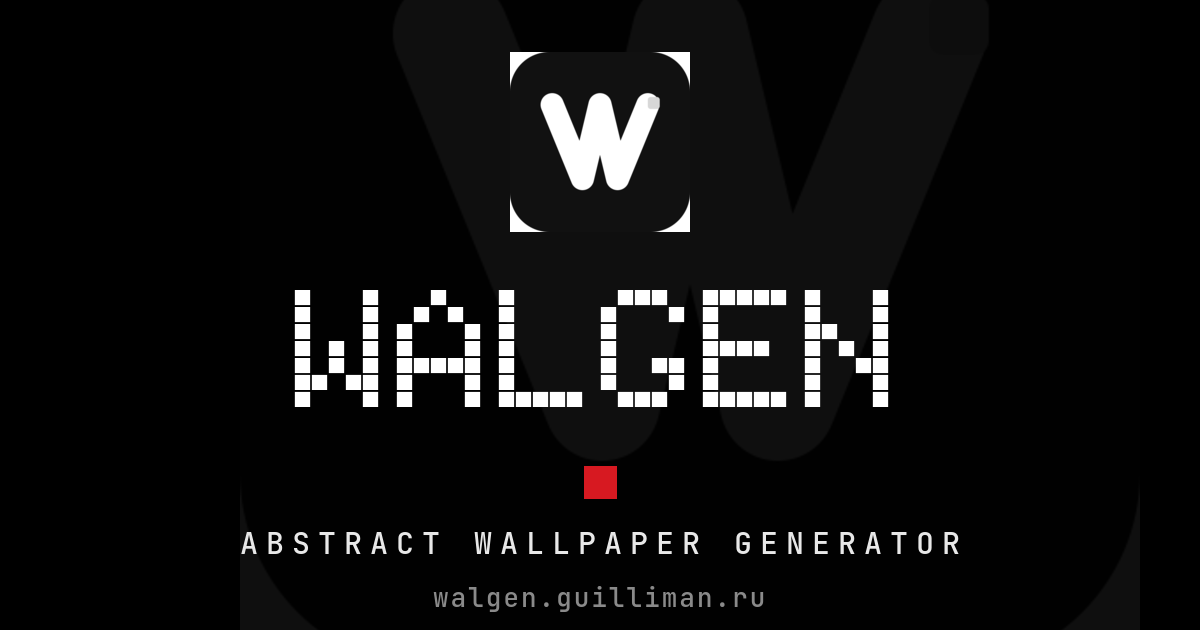
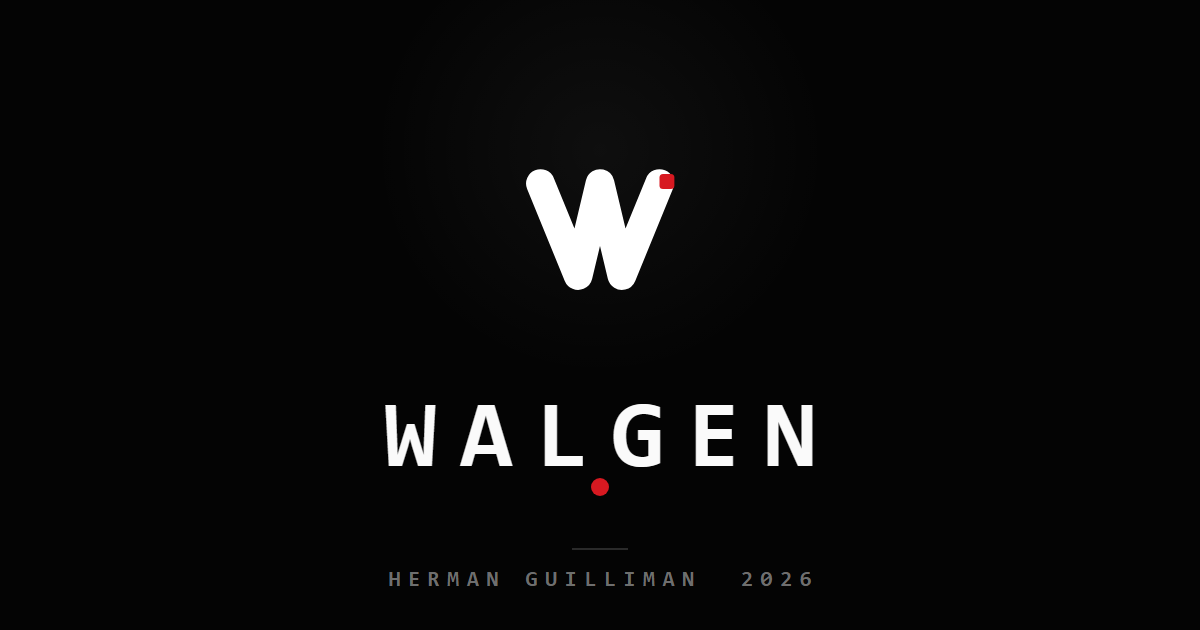
Deploy: feat(seo): regenerate og-image with branded footer credit hermanguilliman/walgen-source@dd89683cf3079bbb3b5f096d6552273559cf8cec

diff --git a/sw.js b/sw.js
@@ -1,1 +1,1 @@
-if(!self.define){let e,i={};const n=(n,r)=>(n=new URL(n+".js",r).href,i[n]||new Promise(i=>{if("document"in self){const e=document.createElement("script");e.src=n,e.onload=i,document.head.appendChild(e)}else e=n,importScripts(n),i()}).then(()=>{let e=i[n];if(!e)throw new Error(`Module ${n} didn’t register its module`);return e}));self.define=(r,c)=>{const a=e||("document"in self?document.currentScript.src:"")||location.href;if(i[a])return;let s={};const o=e=>n(e,a),f={module:{uri:a},exports:s,require:o};i[a]=Promise.all(r.map(e=>f[e]||o(e))).then(e=>(c(...e),s))}}define(["./workbox-fed2bdfe"],function(e){"use strict";self.skipWaiting(),e.clientsClaim(),e.precacheAndRoute([{url:"site.webmanifest",revision:"dcdecbef510639f895f873952e005c21"},{url:"safari-pinned-tab.svg",revision:"e15fd69e3b5f8c7195f5c7780bfddf3a"},{url:"registerSW.js",revision:"1872c500de691dce40960bb85481de07"},{url:"og-image.png",revision:"5515c7f4331d9ddf37cf88f511177916"},{url:"mstile-150x150.png",revision:"4d647afcf1d72ba693ca9e34a92bc093"},{url:"maskable-512x512.png",revision:"831ca27d08c46f5c7dbe8eff5f666afc"},{url:"index.html",revision:"275168c03889d5dce8172fcacf2c72b1"},{url:"favicon.svg",revision:"6b46a762673be0e3e7b09362fcc8c5a8"},{url:"favicon.ico",revision:"e60665b2a6265ec7ed246c985b76f787"},{url:"favicon-48x48.png",revision:"0acad14056ee13a5553abd98b98475ac"},{url:"favicon-32x32.png",revision:"9ed587a34977d566f5a1c7179d0e7163"},{url:"favicon-16x16.png",revision:"7cb563031a20c2548b51732f70268544"},{url:"browserconfig.xml",revision:"50ec36d957a63c682d1d4ef0236b7bb5"},{url:"apple-touch-icon.png",revision:"e635b2dff048be10a32893727d133583"},{url:"android-chrome-512x512.png",revision:"02aada2ad441c33eaf4ba4532074f65b"},{url:"android-chrome-192x192.png",revision:"1e1b87fd99c1b79f82d9afa56dbb695c"},{url:"assets/index-Cc_GOGXt.css",revision:null},{url:"assets/index-CaeLRLc9.js",revision:null},{url:"assets/generator.worker-CP4dW8fi.js",revision:null},{url:"android-chrome-192x192.png",revision:"1e1b87fd99c1b79f82d9afa56dbb695c"},{url:"android-chrome-512x512.png",revision:"02aada2ad441c33eaf4ba4532074f65b"},{url:"apple-touch-icon.png",revision:"e635b2dff048be10a32893727d133583"},{url:"browserconfig.xml",revision:"50ec36d957a63c682d1d4ef0236b7bb5"},{url:"favicon-16x16.png",revision:"7cb563031a20c2548b51732f70268544"},{url:"favicon-32x32.png",revision:"9ed587a34977d566f5a1c7179d0e7163"},{url:"favicon-48x48.png",revision:"0acad14056ee13a5553abd98b98475ac"},{url:"favicon.ico",revision:"e60665b2a6265ec7ed246c985b76f787"},{url:"favicon.svg",revision:"6b46a762673be0e3e7b09362fcc8c5a8"},{url:"maskable-512x512.png",revision:"831ca27d08c46f5c7dbe8eff5f666afc"},{url:"mstile-150x150.png",revision:"4d647afcf1d72ba693ca9e34a92bc093"},{url:"safari-pinned-tab.svg",revision:"e15fd69e3b5f8c7195f5c7780bfddf3a"},{url:"site.webmanifest",revision:"dcdecbef510639f895f873952e005c21"}],{}),e.cleanupOutdatedCaches(),e.registerRoute(new e.NavigationRoute(e.createHandlerBoundToURL("/index.html"),{denylist:[/^\/og-image\.png$/]})),e.registerRoute(({request:e})=>"style"===e.destination,new e.StaleWhileRevalidate({cacheName:"google-fonts-stylesheets",plugins:[]}),"GET"),e.registerRoute(({request:e})=>"font"===e.destination,new e.CacheFirst({cacheName:"google-fonts-webfonts",plugins:[new e.ExpirationPlugin({maxEntries:10,maxAgeSeconds:31536e3})]}),"GET")});
+if(!self.define){let e,i={};const n=(n,r)=>(n=new URL(n+".js",r).href,i[n]||new Promise(i=>{if("document"in self){const e=document.createElement("script");e.src=n,e.onload=i,document.head.appendChild(e)}else e=n,importScripts(n),i()}).then(()=>{let e=i[n];if(!e)throw new Error(`Module ${n} didn’t register its module`);return e}));self.define=(r,c)=>{const a=e||("document"in self?document.currentScript.src:"")||location.href;if(i[a])return;let s={};const o=e=>n(e,a),f={module:{uri:a},exports:s,require:o};i[a]=Promise.all(r.map(e=>f[e]||o(e))).then(e=>(c(...e),s))}}define(["./workbox-fed2bdfe"],function(e){"use strict";self.skipWaiting(),e.clientsClaim(),e.precacheAndRoute([{url:"site.webmanifest",revision:"dcdecbef510639f895f873952e005c21"},{url:"safari-pinned-tab.svg",revision:"e15fd69e3b5f8c7195f5c7780bfddf3a"},{url:"registerSW.js",revision:"1872c500de691dce40960bb85481de07"},{url:"og-image.png",revision:"8645b2b0bca02b01958840e157369e9a"},{url:"mstile-150x150.png",revision:"4d647afcf1d72ba693ca9e34a92bc093"},{url:"maskable-512x512.png",revision:"831ca27d08c46f5c7dbe8eff5f666afc"},{url:"index.html",revision:"275168c03889d5dce8172fcacf2c72b1"},{url:"favicon.svg",revision:"6b46a762673be0e3e7b09362fcc8c5a8"},{url:"favicon.ico",revision:"e60665b2a6265ec7ed246c985b76f787"},{url:"favicon-48x48.png",revision:"0acad14056ee13a5553abd98b98475ac"},{url:"favicon-32x32.png",revision:"9ed587a34977d566f5a1c7179d0e7163"},{url:"favicon-16x16.png",revision:"7cb563031a20c2548b51732f70268544"},{url:"browserconfig.xml",revision:"50ec36d957a63c682d1d4ef0236b7bb5"},{url:"apple-touch-icon.png",revision:"e635b2dff048be10a32893727d133583"},{url:"android-chrome-512x512.png",revision:"02aada2ad441c33eaf4ba4532074f65b"},{url:"android-chrome-192x192.png",revision:"1e1b87fd99c1b79f82d9afa56dbb695c"},{url:"assets/index-Cc_GOGXt.css",revision:null},{url:"assets/index-CaeLRLc9.js",revision:null},{url:"assets/generator.worker-CP4dW8fi.js",revision:null},{url:"android-chrome-192x192.png",revision:"1e1b87fd99c1b79f82d9afa56dbb695c"},{url:"android-chrome-512x512.png",revision:"02aada2ad441c33eaf4ba4532074f65b"},{url:"apple-touch-icon.png",revision:"e635b2dff048be10a32893727d133583"},{url:"browserconfig.xml",revision:"50ec36d957a63c682d1d4ef0236b7bb5"},{url:"favicon-16x16.png",revision:"7cb563031a20c2548b51732f70268544"},{url:"favicon-32x32.png",revision:"9ed587a34977d566f5a1c7179d0e7163"},{url:"favicon-48x48.png",revision:"0acad14056ee13a5553abd98b98475ac"},{url:"favicon.ico",revision:"e60665b2a6265ec7ed246c985b76f787"},{url:"favicon.svg",revision:"6b46a762673be0e3e7b09362fcc8c5a8"},{url:"maskable-512x512.png",revision:"831ca27d08c46f5c7dbe8eff5f666afc"},{url:"mstile-150x150.png",revision:"4d647afcf1d72ba693ca9e34a92bc093"},{url:"safari-pinned-tab.svg",revision:"e15fd69e3b5f8c7195f5c7780bfddf3a"},{url:"site.webmanifest",revision:"dcdecbef510639f895f873952e005c21"}],{}),e.cleanupOutdatedCaches(),e.registerRoute(new e.NavigationRoute(e.createHandlerBoundToURL("/index.html"),{denylist:[/^\/og-image\.png$/]})),e.registerRoute(({request:e})=>"style"===e.destination,new e.StaleWhileRevalidate({cacheName:"google-fonts-stylesheets",plugins:[]}),"GET"),e.registerRoute(({request:e})=>"font"===e.destination,new e.CacheFirst({cacheName:"google-fonts-webfonts",plugins:[new e.ExpirationPlugin({maxEntries:10,maxAgeSeconds:31536e3})]}),"GET")});
